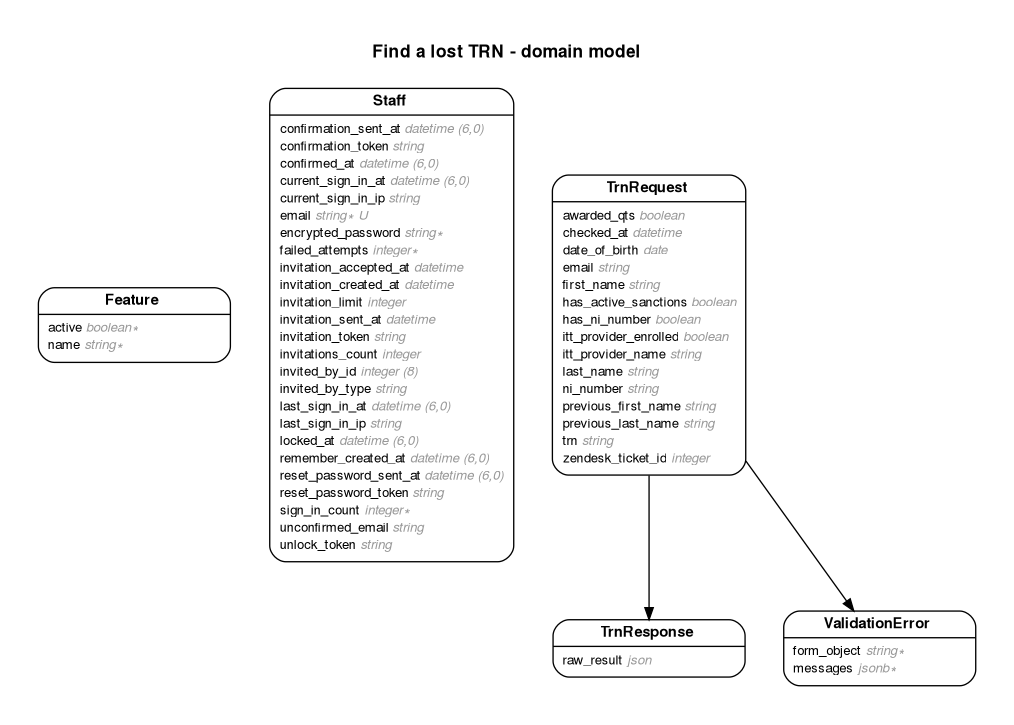
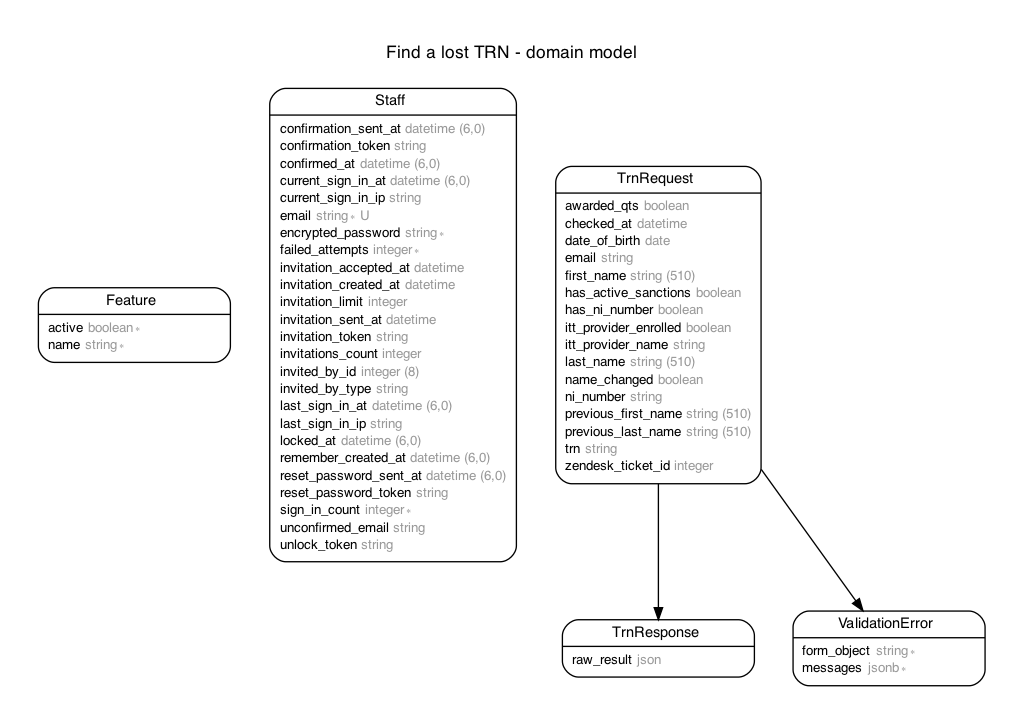
Add encryption to PII fields on a TRN request
Rails 7 has a feature that can encrypt DB fields.

We want to use this to protect PII stored on a `TrnRequest`.

Doing this incrementally will ensure we can handle issues that arise
from encrypting the fields in manageable way.

This change handles encrypting names. Decryption is handled
automatically by Rails, so no change required there.

Of note, strings are converted to base64 and require more space in the
DB. The recommendation for the default string type is 510 bytes. This
should be enough for strings that are 255 characters in plaintext.

diff --git a/app/models/trn_request.rb b/app/models/trn_request.rb
@@ -9,21 +9,24 @@
 #  checked_at            :datetime
 #  date_of_birth         :date
 #  email                 :string
-#  first_name            :string
+#  first_name            :string(510)
 #  has_active_sanctions  :boolean
 #  has_ni_number         :boolean
 #  itt_provider_enrolled :boolean
 #  itt_provider_name     :string
-#  last_name             :string
+#  last_name             :string(510)
+#  name_changed          :boolean
 #  ni_number             :string
-#  previous_first_name   :string
-#  previous_last_name    :string
+#  previous_first_name   :string(510)
+#  previous_last_name    :string(510)
 #  trn                   :string
 #  created_at            :datetime         not null
 #  updated_at            :datetime         not null
 #  zendesk_ticket_id     :integer
 #
 class TrnRequest < ApplicationRecord
+  encrypts :first_name, :last_name, :previous_first_name, :previous_last_name
+
   has_many :trn_responses, dependent: :destroy
 
   scope :with_zendesk_ticket, -> { where.not(zendesk_ticket_id: nil) }

diff --git a/db/schema.rb b/db/schema.rb
@@ -10,7 +10,7 @@
 #
 # It's strongly recommended that you check this file into your version control system.
 
-ActiveRecord::Schema[7.0].define(version: 2022_08_02_124733) do
+ActiveRecord::Schema[7.0].define(version: 2022_08_03_110444) do
   # These are extensions that must be enabled in order to support this database
   enable_extension "plpgsql"
 
@@ -69,10 +69,10 @@ ActiveRecord::Schema[7.0].define(version: 2022_08_02_124733) do
     t.boolean "itt_provider_enrolled"
     t.string "itt_provider_name"
     t.boolean "has_ni_number"
-    t.string "first_name"
-    t.string "last_name"
-    t.string "previous_first_name"
-    t.string "previous_last_name"
+    t.string "first_name", limit: 510
+    t.string "last_name", limit: 510
+    t.string "previous_first_name", limit: 510
+    t.string "previous_last_name", limit: 510
     t.string "trn"
     t.integer "zendesk_ticket_id"
     t.boolean "awarded_qts"

diff --git a/spec/models/trn_request_spec.rb b/spec/models/trn_request_spec.rb
@@ -9,15 +9,16 @@
 #  checked_at            :datetime
 #  date_of_birth         :date
 #  email                 :string
-#  first_name            :string
+#  first_name            :string(510)
 #  has_active_sanctions  :boolean
 #  has_ni_number         :boolean
 #  itt_provider_enrolled :boolean
 #  itt_provider_name     :string
-#  last_name             :string
+#  last_name             :string(510)
+#  name_changed          :boolean
 #  ni_number             :string
-#  previous_first_name   :string
-#  previous_last_name    :string
+#  previous_first_name   :string(510)
+#  previous_last_name    :string(510)
 #  trn                   :string
 #  created_at            :datetime         not null
 #  updated_at            :datetime         not null

diff --git a/db/migrate/20220803110444_change_name_length.rb b/db/migrate/20220803110444_change_name_length.rb
@@ -1,0 +1,8 @@
+class ChangeNameLength < ActiveRecord::Migration[7.0]
+  def change
+    change_column :trn_requests, :first_name, :string, limit: 510
+    change_column :trn_requests, :last_name, :string, limit: 510
+    change_column :trn_requests, :previous_first_name, :string, limit: 510
+    change_column :trn_requests, :previous_last_name, :string, limit: 510
+  end
+end
